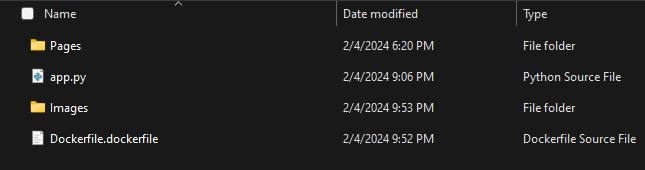
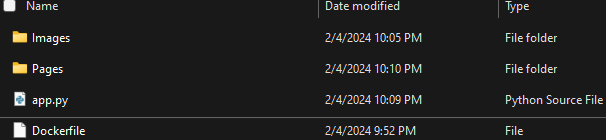
updating app

diff --git a/App/Pages/page5.py b/App/Pages/page5.py
@@ -5,9 +5,7 @@ def show():
 
     st.markdown("""
 - Open a text editor on your computer (like Notepad on Windows, TextEdit on
-  macOS, or any code editor like VSCode). **Recommended**: VSCode will automatically detect the
-  following code as a Dockerfile, and prompt you to install the Docker
-  extension for easy use.
+  macOS, or any code editor like VSCode).
 - Copy and paste the following content into the text editor:
 ```
 # Use an official Python runtime as a parent image
@@ -36,4 +34,31 @@ CMD ["streamlit", "run", "app.py"]
     )
 
     st.image("Images/dockerfile.png", caption="Dockerfile Contents (VSCode)", width=800)
-    st.image("Images/dockerfile_explorer.png", caption="The Dockerfile Within Your App.py Folder", width=800)
+    st.image("Images/dockerfile_explorer.png", caption="The Dockerfile Within Your App.py Root Directory", width=800)
+
+    st.markdown("""
+Next we will need to create a requirements.txt. This will provide the
+  required packages to run your app.
+- Open a text editor on your computer.
+- Write the name of any packages required to run your app (streamlit, pandas,
+  etc) and their specific versions if necessary. It
+  should look something like this:
+                
+"""
+    )
+    st.image("Images/requirements-txt.png", caption="The Requirements.txt's Contents", width=400)
+
+    st.markdown("""
+- Verify it is saved within your App's root directory:
+                
+"""
+    )
+
+    st.image("Images/requirements.png", caption="The Requirements.txt Within Your App.py Root Directory", width=800)
+
+    st.markdown("""
+Now that you have the Dockerfile and requirements.txt ready, we can build a
+Docker Image.
+                
+"""
+    )

diff --git a/App/Pages/page7.py b/App/Pages/page7.py
@@ -1,0 +1,42 @@
+import streamlit as st
+
+def show():
+    st.title("Tag and Push the Docker Image to Google Container Registry")
+
+    st.markdown("""
+- While still within the directory where your Dockerfile is located, run the
+  following command:
+```cmd
+gcloud auth login
+
+```
+- Log in, and then in the run the following command:
+```cmd
+gcloud auth configure-docker
+
+```
+- Hit "y" when prompted.                  
+
+- Tag your Docker image with the Google Container Registry (GCR) URL:
+```cmd
+docker tag your-image-name:tag gcr.io/your-project-id/your-image-name:tag
+
+```
+(Replace "your-image-name : tag" with the image name and tag you used in the previous step, and "your-project-id" with your actual GCP project ID.)
+"""
+    )
+    
+    st.image("Images/tagging.png", caption="Run the Tagging Command", width=800)
+
+    st.markdown("""
+- Run the following command:
+```cmd
+docker push gcr.io/your-project-id/your-image-name:tag
+
+```
+If successful it should look something like this:
+                """
+    )
+
+        
+    st.image("Images/successful_push.png", caption="docker push gcr.io/shaolin-streamlit-app-demo/shaolin-demo:latest", width=800)

diff --git a/App/app.py b/App/app.py
@@ -1,5 +1,5 @@
 import streamlit as st
-from Pages import page1,page2, page3, page4, page5
+from Pages import page1,page2, page3, page4, page5, page6, page7, page8
 
 favicon = "Images/favicon.ico"
 
@@ -26,7 +26,10 @@ def main():
         "Docker Installation",
         "Google Cloud Platform (GCP) Account Setup",
         "Configure Google Cloud SDK",
-        "Create a Dockerfile"
+        "Create a Dockerfile",
+        "Build a Docker Image",
+        "Tag and Push the Docker Image to Google Container Registry",
+        "Deploy the Streamlit App on Google Cloud Run"
         ]
     selected_page = st.sidebar.radio("Select Page", page_options)
 
@@ -40,6 +43,12 @@ def main():
         page4.show()
     elif selected_page == "Create a Dockerfile":
         page5.show()
+    elif selected_page == "Build a Docker Image":
+        page6.show()
+    elif selected_page == "Tag and Push the Docker Image to Google Container Registry":
+        page7.show()
+    elif selected_page == "Deploy the Streamlit App on Google Cloud Run":
+        page8.show()
 
 if __name__ == "__main__":
     main()

diff --git a/App/Pages/page3.py b/App/Pages/page3.py
@@ -12,8 +12,8 @@ def show():
   separately from your main Google account), I would suggest creating a new
   one.
                 
-    Whether or not you choose to utilize the free credits, it is necessary to input
-    payment information. However, rest assured that the likelihood of incurring
+    Whether or not you choose to utilize the free credits, payment information
+    is required. However, rest assured that the likelihood of incurring
     charges is minimal when using a small dashboard app, provided you do not exert
     substantial computing power. You have the option to deactivate the app from the
     console, preventing access, and can configure notifications to alert you about
@@ -37,5 +37,11 @@ def show():
                 
 - You should get a notification that your project has been created.
 
+- In the left-hand navigation menu, click on "APIs & Services" and then
+  "Library."
+                
+- In the search bar, type "Artifact Registry API" and select it from the list.
+
+- Click the "Enable" button to enable the API.
 """
     )

diff --git a/App/Pages/page6.py b/App/Pages/page6.py
@@ -1,0 +1,34 @@
+import streamlit as st
+
+def show():
+    st.title("Build a Docker Image")
+
+    st.markdown("""
+- Open a terminal or command prompt.
+- Navigate to the directory where your Dockerfile and requirements.txt are
+  located. You can use the cd command to change directories:
+```cmd
+cd /path/to/your/app
+```
+- Build the Docker image using the following command:
+```cmd
+docker build -t your-image-name .
+```
+(Replace your-image-name with a unique name for your Docker image. This command
+tells Docker to build an image using the Dockerfile in the current directory.)
+
+Once completed, you should see something like this:
+                
+                """
+    )
+    st.image("Images/docker_image.png", caption="Succesfully Created Docker Image", width=800)
+
+    st.markdown("""
+Verify the image exists and view it's tag by running
+```cmd
+docker images
+```
+                
+                """)
+    
+    st.image("Images/docker_image_tag.png", caption="Run Docker Image", width=800)

diff --git a/App/Pages/page8.py b/App/Pages/page8.py
@@ -1,0 +1,9 @@
+import streamlit as st
+
+def show():
+    st.title("Deploy the Streamlit App on Google Cloud Run")
+
+    st.markdown("""
+
+"""
+    )
